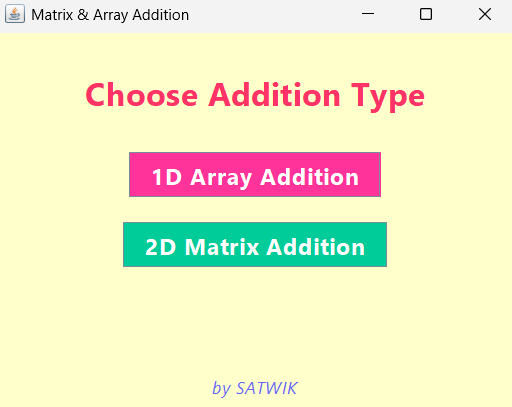
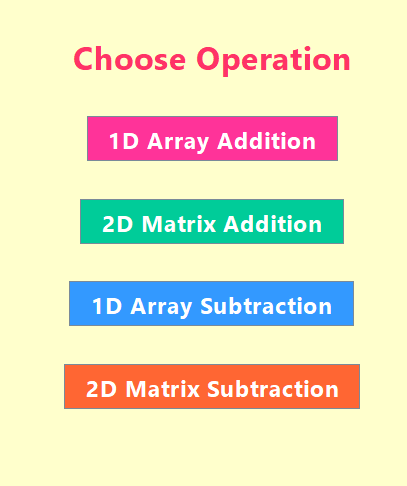
2d added

diff --git a/MatrixAddition.java b/MatrixAddition.java
@@ -87,7 +87,7 @@ class arrayadd {
         dialog.setLayout(new BorderLayout());
         dialog.setLocationRelativeTo(parent);
 
-        JPanel inputPanel = new JPanel(new GridLayout(6, 2, 10, 10));
+        JPanel inputPanel = new JPanel(new GridLayout(6, 1, 10, 10));
         inputPanel.setBackground(new Color(235, 255, 245));
 
         JTextField rowField = new JTextField();
@@ -249,6 +249,94 @@ class arrayadd {
         dialog.add(resultArea, BorderLayout.SOUTH);
 
         dialog.setVisible(true);
+    } 
+
+    @SuppressWarnings("unused")
+    void sub2dGUI(JFrame parent) {
+        JDialog dialog = new JDialog(parent, "2D Matrix Subtraction", true);
+        dialog.setSize(520, 620);
+        dialog.setLayout(new BorderLayout());
+        dialog.setLocationRelativeTo(parent);
+
+        JPanel inputPanel = new JPanel(new GridLayout(6, 1, 10, 10));
+        inputPanel.setBackground(new Color(255, 245, 235));
+
+        JTextField rowField = new JTextField();
+        JTextField colField = new JTextField();
+        JTextArea arr1Area = new JTextArea(10, 20);
+        JTextArea arr2Area = new JTextArea(10, 20);
+
+        inputPanel.add(styledLabel("Rows:"));
+        inputPanel.add(rowField);
+        inputPanel.add(styledLabel("Columns:"));
+        inputPanel.add(colField);
+        inputPanel.add(styledLabel("Matrix 1 (row-wise, space separated):"));
+        inputPanel.add(new JScrollPane(arr1Area));
+        inputPanel.add(styledLabel("Matrix 2 (row-wise, space separated):"));
+        inputPanel.add(new JScrollPane(arr2Area));
+
+        JButton subButton = new JButton("Subtract Matrices");
+        subButton.setBackground(new Color(255, 102, 51));
+        subButton.setForeground(Color.WHITE);
+        subButton.setFont(new Font("Segoe UI", Font.BOLD, 17));
+        subButton.setFocusPainted(false);
+        subButton.setCursor(new Cursor(Cursor.HAND_CURSOR));
+
+        JTextArea resultArea = new JTextArea(10, 30);
+         resultArea.setPreferredSize(new Dimension(400, 180));
+        resultArea.setEditable(false);
+        resultArea.setBackground(new Color(255, 245, 235));
+        resultArea.setFont(new Font("Consolas", Font.BOLD, 16));
+        resultArea.setForeground(new Color(51, 51, 51));
+        resultArea.setBorder(BorderFactory.createLineBorder(new Color(255, 102, 51), 2));
+
+        subButton.addActionListener(e -> {
+            try {
+                int rows = Integer.parseInt(rowField.getText().trim());
+                int cols = Integer.parseInt(colField.getText().trim());
+                String[] arr1Str = arr1Area.getText().trim().split("\\s+");
+                String[] arr2Str = arr2Area.getText().trim().split("\\s+");
+                if (arr1Str.length != rows * cols || arr2Str.length != rows * cols) {
+                    resultArea.setText("Number of elements doesn't match matrix size!");
+                    return;
+                }
+                int[][] arr1 = new int[rows][cols];
+                int[][] arr2 = new int[rows][cols];
+                int[][] diff = new int[rows][cols];
+                for (int i = 0; i < rows * cols; i++) {
+                    arr1[i / cols][i % cols] = Integer.parseInt(arr1Str[i]);
+                    arr2[i / cols][i % cols] = Integer.parseInt(arr2Str[i]);
+                }
+                StringBuilder sb = new StringBuilder("Result:\n");
+                for (int i = 0; i < rows; i++) {
+                    for (int j = 0; j < cols; j++) {
+                        diff[i][j] = arr1[i][j] - arr2[i][j];
+                        sb.append(String.format("%-5d", diff[i][j]));
+                    }
+                    sb.append("\n");
+                }
+                resultArea.setText(sb.toString());
+            } catch (Exception ex) {
+                resultArea.setText("Invalid input!");
+            }
+        });
+
+        JPanel buttonPanel = new JPanel();
+        buttonPanel.setBackground(new Color(255, 245, 235));
+        buttonPanel.add(subButton);
+
+        JPanel centerPanel = new JPanel();
+        centerPanel.setLayout(new BoxLayout(centerPanel, BoxLayout.Y_AXIS));
+        centerPanel.setBackground(new Color(255, 245, 235));
+        centerPanel.add(inputPanel);
+        centerPanel.add(Box.createVerticalStrut(10));
+        centerPanel.add(buttonPanel);
+        centerPanel.add(Box.createVerticalStrut(10));
+        centerPanel.add(new JScrollPane(resultArea));
+
+        dialog.add(centerPanel, BorderLayout.CENTER);
+
+        dialog.setVisible(true);
     }
 }
 
@@ -258,7 +346,7 @@ public class MatrixAddition extends arrayadd {
         // Stylish main frame
         JFrame frame = new JFrame("Matrix & Array Operations");
         frame.setDefaultCloseOperation(JFrame.EXIT_ON_CLOSE);
-        frame.setSize(430, 380);
+        frame.setSize(430, 430);
         frame.setLocationRelativeTo(null);
 
         JPanel panel = new JPanel();
@@ -294,6 +382,21 @@ public class MatrixAddition extends arrayadd {
         btn1dSub.setCursor(new Cursor(Cursor.HAND_CURSOR));
         btn1dSub.setAlignmentX(Component.CENTER_ALIGNMENT);
 
+        JButton btn2dSub = new JButton("2D Matrix Subtraction");
+        btn2dSub.setBackground(new Color(255, 102, 51));
+        btn2dSub.setForeground(Color.WHITE);
+        btn2dSub.setFont(new Font("Segoe UI", Font.BOLD, 19));
+        btn2dSub.setFocusPainted(false);
+        btn2dSub.setCursor(new Cursor(Cursor.HAND_CURSOR));
+        btn2dSub.setAlignmentX(Component.CENTER_ALIGNMENT);
+
+        // Keep frame centered on maximize
+        frame.addComponentListener(new java.awt.event.ComponentAdapter() {
+            public void componentResized(java.awt.event.ComponentEvent evt) {
+            frame.setLocationRelativeTo(null);
+            }
+        });
+
         JLabel footer = new JLabel("by SATWIK");
         footer.setFont(new Font("Segoe UI", Font.ITALIC, 14));
         footer.setForeground(new Color(102, 102, 255));
@@ -303,10 +406,12 @@ public class MatrixAddition extends arrayadd {
         panel.add(title);
         panel.add(Box.createVerticalStrut(30));
         panel.add(btn1dAdd);
-        panel.add(Box.createVerticalStrut(20));
+        panel.add(Box.createVerticalStrut(30));
         panel.add(btn2dAdd);
-        panel.add(Box.createVerticalStrut(20));
+        panel.add(Box.createVerticalStrut(30));
         panel.add(btn1dSub);
+        panel.add(Box.createVerticalStrut(30));
+        panel.add(btn2dSub);
         panel.add(Box.createVerticalGlue());
         panel.add(footer);
         panel.add(Box.createVerticalStrut(10));
@@ -319,5 +424,6 @@ public class MatrixAddition extends arrayadd {
         btn1dAdd.addActionListener(e -> SwingUtilities.invokeLater(() -> ad.add1dGUI(frame)));
         btn2dAdd.addActionListener(e -> SwingUtilities.invokeLater(() -> ad.add2dGUI(frame)));
         btn1dSub.addActionListener(e -> SwingUtilities.invokeLater(() -> ad.subarr1dGUI(frame)));
+        btn2dSub.addActionListener(e -> SwingUtilities.invokeLater(() -> ad.sub2dGUI(frame)));
     }
 }
